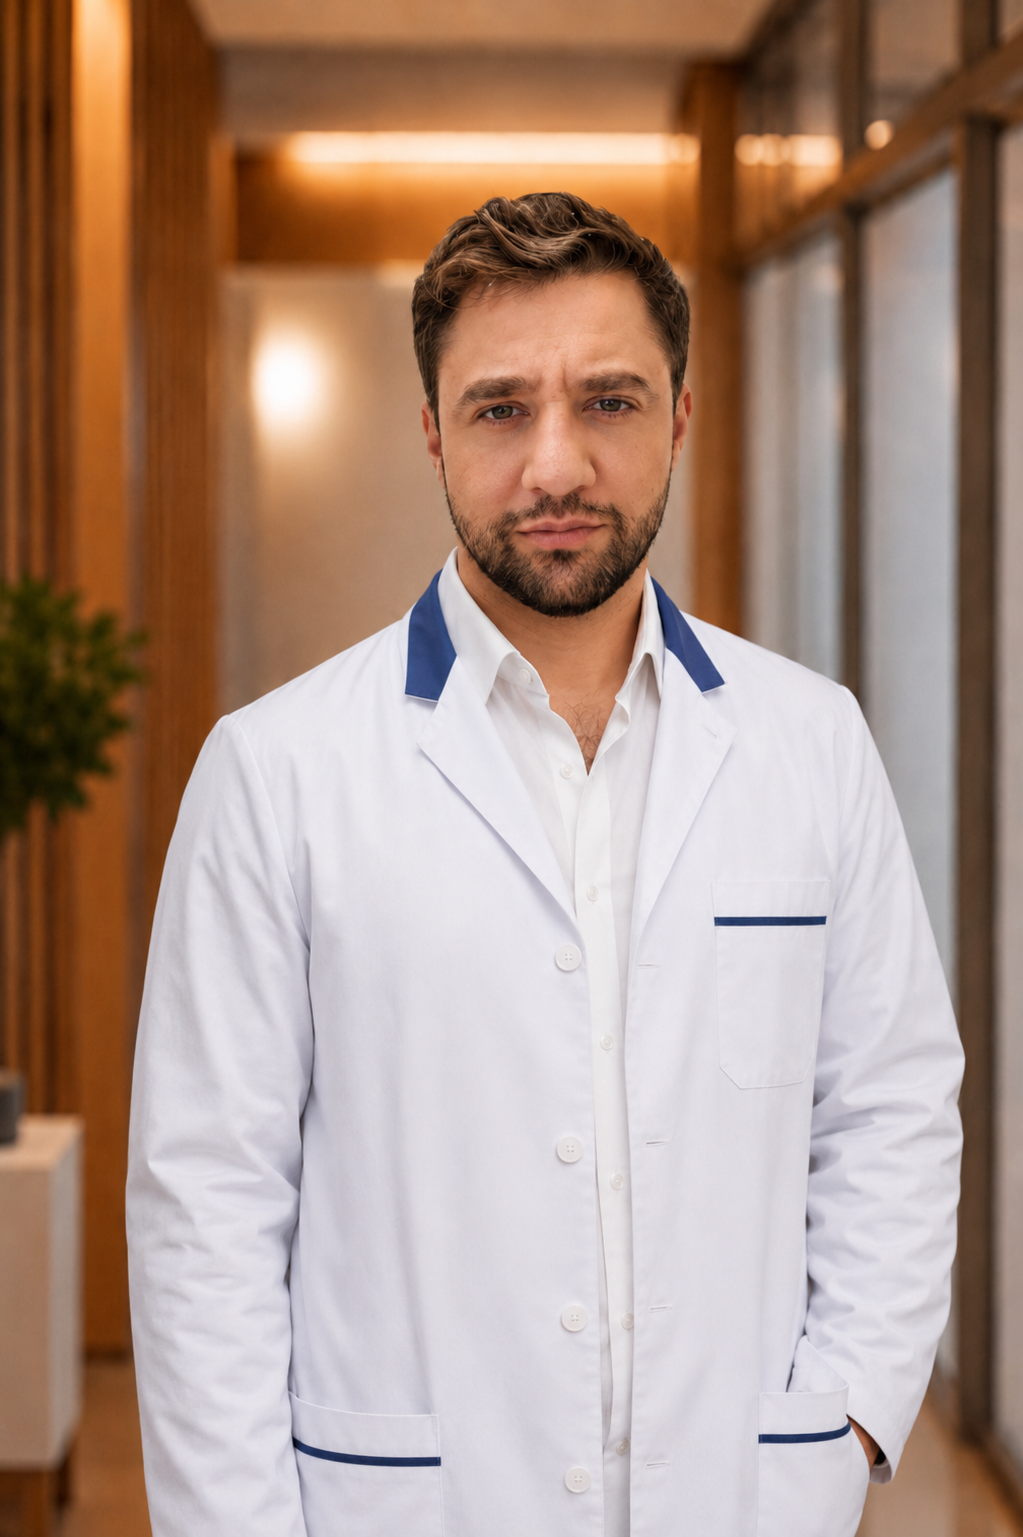
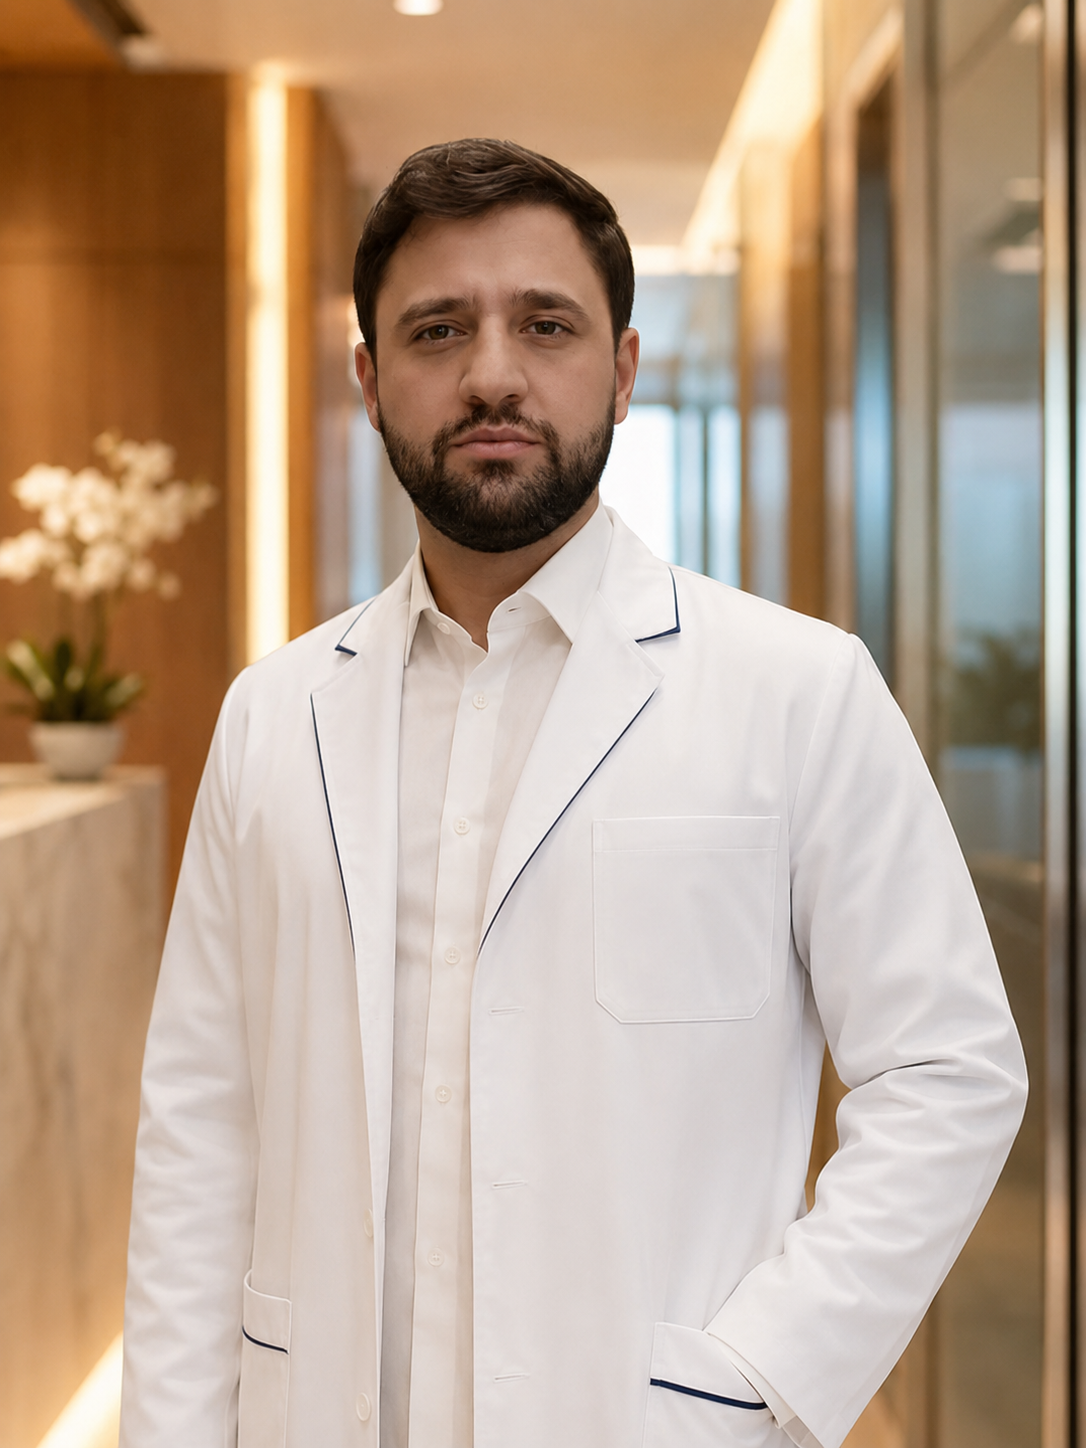
Add missing doctor photos

diff --git a/lib/data.ts b/lib/data.ts
@@ -397,7 +397,8 @@ export const DOCTORS: Doctor[] = [
   // ─── 7. Преображенская Татьяна Александровна ───────────────────────────
   // По DOCTORS_PATCH_HANDOFF (2026-07-04): добавлено только образование.
   // НЕ меняем без отдельного подтверждения: специальность «Психолог, детский психолог»,
-  // стаж (в источниках конфликт 4/6/7/8 лет — не публикуем), фото (локального файла нет).
+  // стаж (в источниках конфликт 4/6/7/8 лет — не публикуем).
+  // Портрет получен от владельца (2026-08-04) → плейсхолдер заменён на реальное фото.
   {
     slug: "preobrazhenskaya-ta",
     name: "Преображенская Татьяна Александровна",
@@ -412,7 +413,8 @@ export const DOCTORS: Doctor[] = [
       "Кризисные состояния",
       "Трудности в отношениях",
     ],
-    photoStatus: "none",
+    photo: "/assets/doctors/preobrazhenskaya.png",
+    photoStatus: "production",
     href: "/vrachi/preobrazhenskaya-ta/",
     education: [
       "Уральский государственный педагогический университет, Институт психологии — «Психологическое консультирование», 2018",
@@ -426,7 +428,8 @@ export const DOCTORS: Doctor[] = [
   // По DOCTORS_PATCH_HANDOFF (2026-07-04): ФИО подтверждено «Мария Павловна» (не Петровна);
   // добавлены стаж, образование и цена первичного приёма (5 000 ₽ — совпадает с общим прайсом,
   // код 2011). Формат приёма (60 минут) — по конвенции сайта для психолога (как у Франко О.В.).
-  // НЕ меняем: специальность (оставлена безопасная «Клинический психолог»), фото (нет локального файла).
+  // НЕ меняем: специальность (оставлена безопасная «Клинический психолог»).
+  // Портрет получен от владельца (2026-08-04) → плейсхолдер заменён на реальное фото.
   {
     slug: "madalieva-mp",
     name: "Мадалиева Мария Павловна",
@@ -443,7 +446,8 @@ export const DOCTORS: Doctor[] = [
       "Отношения",
       "Экзистенциальные вопросы",
     ],
-    photoStatus: "none",
+    photo: "/assets/doctors/madalieva.png",
+    photoStatus: "production",
     href: "/vrachi/madalieva-mp/",
     firstVisit: { name: "Первичный приём психолога", duration: "60 минут", price: "5 000 ₽" },
     experience: "8 лет",
@@ -505,11 +509,12 @@ export const DOCTORS: Doctor[] = [
 
   // ─── 10. Караваева Анастасия Алексеевна ────────────────────────────────
   // Источник: «1. Сбор для заполнения сайта/Сотрудники/Караваева Анастасия Алексеевна»
-  // (RTF-профиль + 6 сканов дипломов/сертификатов). Портретного фото в папке НЕТ → photoStatus:"none".
+  // (RTF-профиль + 6 сканов дипломов/сертификатов).
   // Легально-безопасная рамка (канон файла): психиатрия/психотерапия + гештальт;
   // зависимость — только как «зависимое поведение / поддержка ремиссии».
   // НЕ публикуется (OWNER-CONFIRMED 2026-07-04): «психиатр-нарколог», «психолог-сексолог»,
-  // серийные № дипломов. Фото пока нет — владелец подтвердил плейсхолдер. specialty/стаж согласованы.
+  // серийные № дипломов. specialty/стаж согласованы.
+  // Портрет получен от владельца (2026-08-04) → плейсхолдер заменён на реальное фото.
   // Полный разбор источника: docs/content/karavaeva-source-audit-v1.md
   {
     slug: "karavaeva-anastasiya-alekseevna",
@@ -528,7 +533,8 @@ export const DOCTORS: Doctor[] = [
       "Нарушения пищевого поведения",
       "Зависимое поведение",
     ],
-    photoStatus: "none",
+    photo: "/assets/doctors/karavaeva.png",
+    photoStatus: "production",
     href: "/vrachi/karavaeva-anastasiya-alekseevna/",
     experience: "5 лет",
     education: [

diff --git a/DOCTORS_PHOTOS_TASK.md b/DOCTORS_PHOTOS_TASK.md
@@ -1,0 +1,174 @@
+# TASK: Add and replace doctor photos on ПРО Спокойствие site
+
+Project:
+Next.js 14 App Router website for clinic «ПРО Спокойствие».
+
+Working folder:
+`/Users/glebkoroteev/projects/Глеб (Проспокойствие)/pro-spokoystvie-release-work/pro-spokoystvie-site-prod-20260704_015914`
+
+Important workflow:
+- Work only inside the current project folder.
+- Do not commit.
+- Do not push.
+- Do not deploy.
+- Stop after implementation and provide a report.
+
+## Context
+
+The website currently has doctor cards with placeholder image blocks saying «Фото готовится».
+The owner has provided real local portrait files for doctors.
+The source files have been copied into a local project-only input folder:
+
+`./.local-input/doctor-photos-source/`
+
+Use these source files only as input. Do not commit this local input folder.
+
+## Goal
+
+Update doctor photos on the site.
+
+### A. Replace placeholders with real photos
+
+For the following doctors, replace the placeholder image with the correct real portrait:
+
+1. Караваева Анастасия Алексеевна
+2. Преображенская Татьяна Александровна
+3. Мадалиева Мария Павловна
+
+### B. Replace existing photo
+
+For the following doctor, replace the current existing photo with the new provided portrait:
+
+4. Тадевосян Нарек Самвелович
+
+## Source-file matching
+
+The source files in `./.local-input/doctor-photos-source/` should be matched by doctor name in the filename.
+
+Expected name patterns may include:
+
+- `Караваева Анастасия Алексеевна.*`
+- `Преображенская Татьяна Александровна.*`
+- `Мадалиева Мария Павловна.*`
+- `Тадевосян Нарек Самвелович.*`
+
+If exact extensions or names differ, inspect the files carefully and match by filename and visual content.
+If any mapping is ambiguous, stop and report the ambiguity before making risky changes.
+
+## What to inspect before editing
+
+Before changing files, inspect:
+
+1. Current doctor data source.
+2. Existing doctor image path fields.
+3. Existing public asset folders for doctor photos.
+4. Doctor card component(s).
+5. Individual doctor page(s), if they use the same image fields.
+6. Homepage / doctors sections, if these doctors appear there.
+
+Likely files/areas to inspect:
+
+- `lib/data.ts`
+- `components/**`
+- `app/vrachi/**`
+- `public/**`
+
+Do not assume the architecture. Verify it from the code.
+
+## Implementation requirements
+
+1. Use the project’s existing image convention and location for doctor portraits.
+2. Put final web-ready image assets into the appropriate `public` folder used by the project.
+3. Update data mappings/usages so the photos appear everywhere the doctors are rendered.
+4. Preserve the existing card design and layout.
+5. Do not change doctor names, titles, experience, tags, prices, services, navigation, forms, lead route, email logic, sitemap, SEO package, or unrelated copy.
+6. Do not touch the postponed lead/email work.
+7. Do not commit `.local-input/doctor-photos-source/`.
+8. Do not leave broken references to source files.
+
+## Visual requirements
+
+For every portrait:
+
+- show the doctor clearly and professionally;
+- avoid cutting off the head;
+- avoid awkward crop;
+- do not distort aspect ratio;
+- preserve professional medical-site style;
+- keep cards consistent with other doctors;
+- use reasonable web optimization if needed;
+- do not degrade image quality unnecessarily.
+
+If the site uses `object-cover`, choose image dimensions/crops that work well with the existing card proportions.
+Do not redesign the cards unless absolutely necessary.
+
+## Required doctors and expected result
+
+### Караваева Анастасия Алексеевна
+- Before: placeholder «Фото готовится».
+- After: real portrait from source folder.
+
+### Преображенская Татьяна Александровна
+- Before: placeholder «Фото готовится».
+- After: real portrait from source folder.
+
+### Мадалиева Мария Павловна
+- Before: placeholder «Фото готовится».
+- After: real portrait from source folder.
+
+### Тадевосян Нарек Самвелович
+- Before: existing current photo on site.
+- After: replace with the new portrait from source folder.
+
+## Validation commands
+
+Run:
+
+```bash
+npm run typecheck
+npm run lint
+npm run build
+```
+
+All must pass.
+
+## Manual visual verification
+
+Run local dev or production preview and check at least:
+
+- `/vrachi`
+- individual doctor pages for affected doctors, if they exist
+- homepage sections if affected doctors appear there
+- neurology section/page for Тадевосян Нарек Самвелович
+
+Confirm:
+
+- no placeholder remains for the three doctors listed above;
+- Тадевосян Нарек Самвелович displays the new portrait, not the old one;
+- card crops look correct;
+- no layout is broken on desktop and mobile widths.
+
+## Final report
+
+Report clearly:
+
+1. Files changed.
+2. Which source images from `.local-input/doctor-photos-source/` were used for each doctor.
+3. Where final images were placed in the repo.
+4. Which data entries / image mappings were updated.
+5. Which pages/URLs were visually checked.
+6. Results of:
+   - `npm run typecheck`
+   - `npm run lint`
+   - `npm run build`
+7. Whether any placeholder «Фото готовится» still remains anywhere on the site.
+8. Whether any ambiguity remained in filename-to-doctor mapping.
+
+## Stop condition
+
+After completing the task:
+
+- do not commit;
+- do not push;
+- do not deploy;
+- wait for confirmation.
